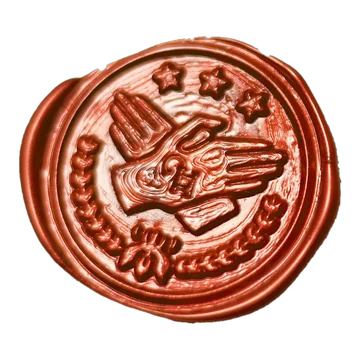
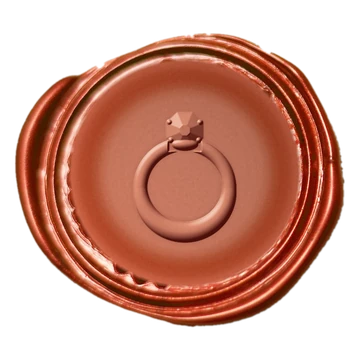
Envelope opener: ring-motif wax seal with no seam before opening
The real red seal keeps its outer wax; the medallion is flattened and
embossed with a diamond solitaire ring. A whole, unclipped seal sits on
the flap until the click, so the cut between the two halves only shows
once it cracks.

Claude-Session: https://claude.ai/code/session_01B2hpZLg8v4z8WiErSMQ7o1

diff --git a/public/css/openers/envelope.css b/public/css/openers/envelope.css
@@ -24,7 +24,7 @@
 
 /* 按鈕蓋滿整封信：點哪裡都拆得開（封蠟只是視線的落點） */
 .env .op-hit{z-index:6;}
-.env:not(.is-opening) .op-hit:focus-visible ~ .env-flap .env-seal{outline:2px solid #e2c47a;outline-offset:6px;border-radius:50%;}
+.env:not(.is-opening) .op-hit:focus-visible ~ .env-flap .env-seal-whole{outline:2px solid #e2c47a;outline-offset:6px;border-radius:50%;}
 
 /* ---- 內襯：信封裡面那層花紋紙（封口掀起來才看得到） ---- */
 .env-inside{
@@ -107,8 +107,12 @@
 /* 同一枚封蠟沿著鋸齒切成兩半：上半黏在封口、下半黏在下片（兩條鋸齒錯開一點點，裂開時才有縫） */
 .env-seal-t .env-seal-art{clip-path:polygon(0% 0%,100% 0%,100.00% 49.25%,91.67% 52.67%,83.33% 48.00%,75.00% 53.92%,66.67% 48.00%,58.33% 52.67%,50.00% 49.25%,41.67% 52.67%,33.33% 48.00%,25.00% 53.92%,16.67% 48.00%,8.33% 52.67%,0.00% 49.25%);}
 .env-seal-b .env-seal-art{clip-path:polygon(0% 100%,100% 100%,100.00% 48.25%,91.67% 51.67%,83.33% 47.00%,75.00% 52.92%,66.67% 47.00%,58.33% 51.67%,50.00% 48.25%,41.67% 51.67%,33.33% 47.00%,25.00% 52.92%,16.67% 47.00%,8.33% 51.67%,0.00% 48.25%);}
-.env.is-ready:not(.is-opening) .env-flap .env-seal{animation:env-seal-breathe 3.2s ease-in-out 1s infinite;}
-.env.is-ready:not(.is-opening) .op-hit:hover ~ .env-flap .env-seal{transform:scale(1.04);}
+/* 拆開前只看得到完整的那一枚（兩半疊在一起會被上半的陰影描出一條縫），點下去的那一刻才換成兩半 */
+.env-seal-whole .env-seal-art{clip-path:none;}
+.env:not(.is-opening) .env-seal-t,.env:not(.is-opening) .env-seal-b{opacity:0;}
+.env.is-opening .env-seal-whole{opacity:0;}
+.env.is-ready:not(.is-opening) .env-seal-whole{animation:env-seal-breathe 3.2s ease-in-out 1s infinite;}
+.env.is-ready:not(.is-opening) .op-hit:hover ~ .env-flap .env-seal-whole{transform:scale(1.04);}
 @keyframes env-seal-breathe{50%{filter:drop-shadow(0 3px 3px rgba(40,6,8,.35)) drop-shadow(0 0 14px rgba(226,196,122,.55));}}
 
 /* ---- 提示 ---- */

diff --git a/public/js/openers/envelope.js b/public/js/openers/envelope.js
@@ -2,8 +2,8 @@
    openers/envelope.js — 開場：一封蓋了封蠟的信
    ------------------------------------------------------------
    一封從背面看的歐式信封：內襯 → 信紙 → 左、右、下三片 → 封口 ＋ 封蠟。
-   封蠟是一枚真的紅色封蠟（SHAN LU／Unsplash，去背：一雙相握的手、三顆星、麥穗花圈），
-   沿著鋸齒切成上下兩半，分別黏在封口與下片。點一下：
+   封蠟是一枚真的紅色封蠟（SHAN LU／Unsplash，去背），中間的印面整平後壓上一枚鑽戒。
+   沿著鋸齒切成上下兩半，分別黏在封口與下片；拆開前上面另蓋一枚完整的，看不出裂縫。點一下：
 
      1. 封蠟從中間裂開，上半顆跟著封口走
      2. 封口從尖端開始往上掀（以上緣為軸，往賓客這一側翻起來）
@@ -52,6 +52,7 @@
       </div>
     </div>
     <div class="env-seal env-seal-t"><i class="env-seal-art"></i></div>
+    <div class="env-seal env-seal-whole"><i class="env-seal-art"></i></div>
   </div>
 `;
 

diff --git a/README.md b/README.md
@@ -220,7 +220,7 @@ HTML 裡直接寫 `{{couple}}`、`{{date}}`、`{{hashtag}}` 這類 token，
 
 | 代號 | 開場 | 怎麼動 | 誰的預設 |
 |---|---|---|---|
-| `envelope` | 拆信・封蠟 | 點封蠟 → 封蠟沿著鋸齒裂成兩半、封口掀起 → 信封四散。封蠟是一枚真的紅色封蠟（[SHAN LU／Unsplash](https://unsplash.com/photos/_IBWeoe1VAA)：一雙相握的手、三顆星、麥穗花圈；`img/envelope/wax-seal.webp`，依顏色去背） | tapestry |
+| `envelope` | 拆信・封蠟 | 點封蠟 → 封蠟沿著鋸齒裂成兩半、封口掀起 → 信封四散。封蠟是一枚真的紅色封蠟（[SHAN LU／Unsplash](https://unsplash.com/photos/_IBWeoe1VAA)，依顏色去背；保留外圈的蠟、把中間的印面整平，再壓上一枚鑽戒；`img/envelope/wax-seal.webp`）。拆開前蓋著一枚完整的封蠟，看不出裂縫 | tapestry |
 | `book` | 翻頁・古書 | 點封面 → 翻開 → 扉頁 → 翻過扉頁 | （可選） |
 | `bloom` | 花朵盛開 | 自己演：一整面綠籬 → 到處冒出小花苞 → 從中間往外一波波開成白玫瑰 → 名字（綠籬與玫瑰都是真的照片） | spring-orangerie |
 | `curtain` | 窗簾拉開 | 點一下 → 布幕收到兩側 → 光進來（晨光房間：真的白紗簾，後面是窗台上一瓶鬱金香的窗） | morning-window |
